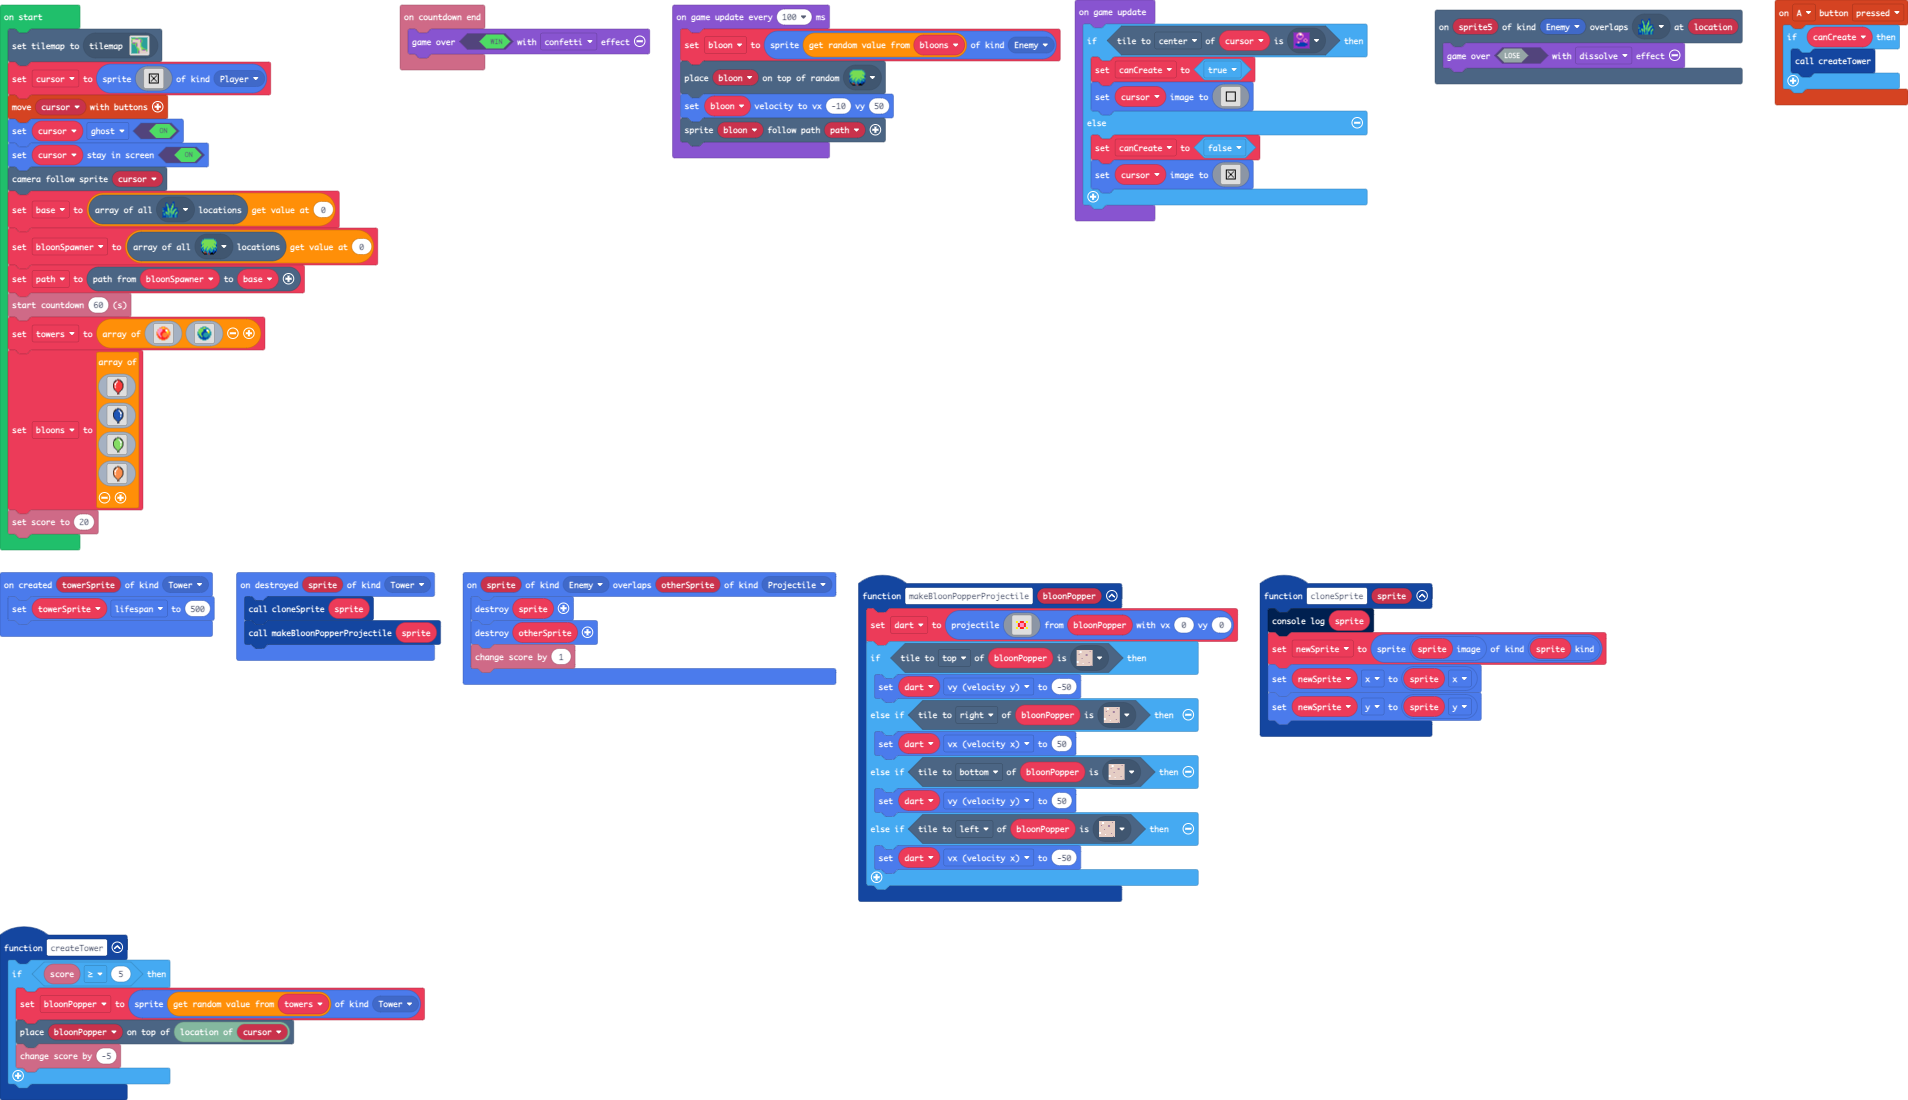
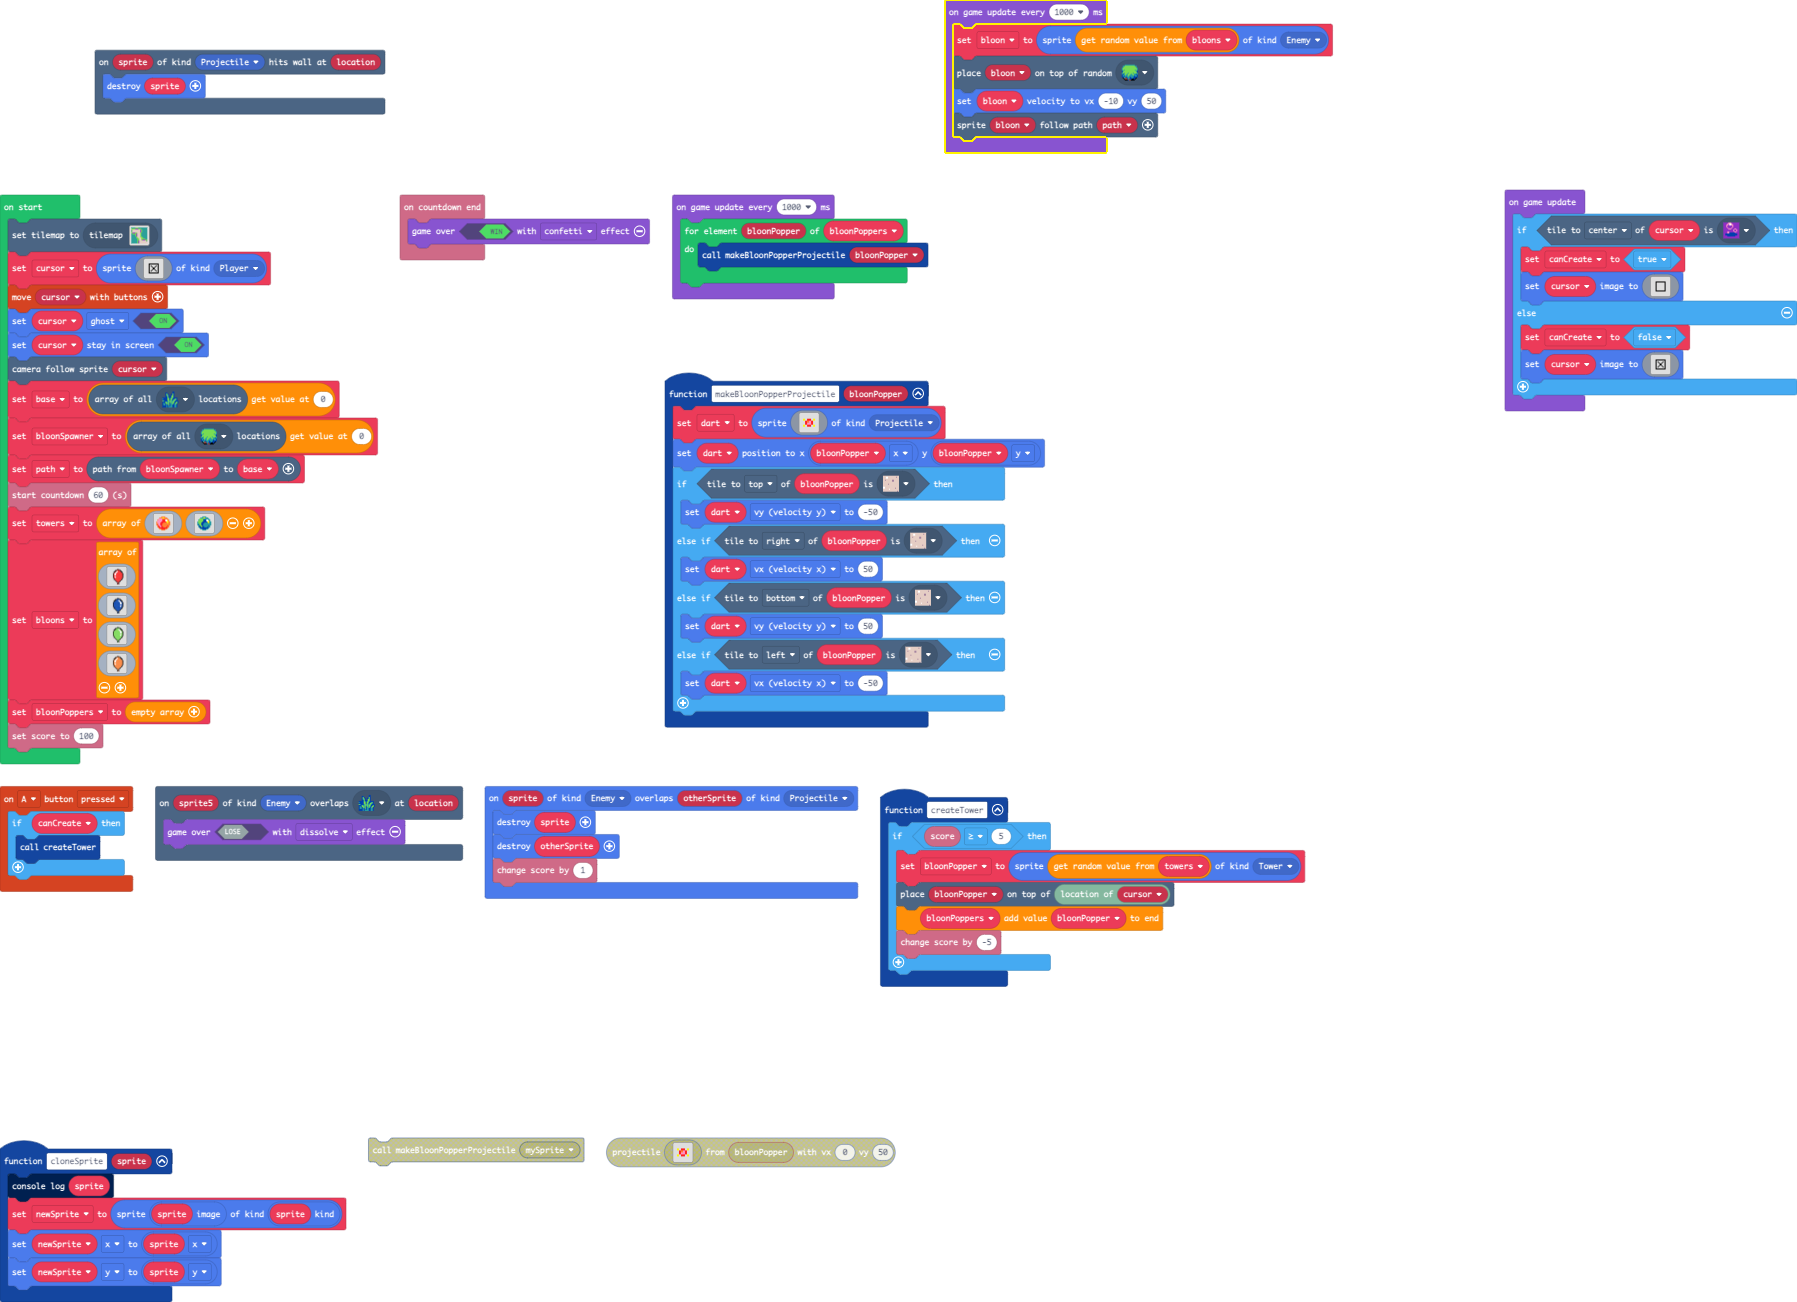
I 100% polished and finished the game. Whoo Hoo!

diff --git a/main.ts b/main.ts
@@ -1,14 +1,11 @@
 namespace SpriteKind {
     export const Tower = SpriteKind.create()
 }
-sprites.onDestroyed(SpriteKind.Tower, function (sprite) {
-    cloneSprite(sprite)
-    makeBloonPopperProjectile(sprite)
-})
 function createTower () {
     if (info.score() >= 5) {
         bloonPopper = sprites.create(towers._pickRandom(), SpriteKind.Tower)
         tiles.placeOnTile(bloonPopper, tiles.locationOfSprite(cursor))
+        bloonPoppers.push(bloonPopper)
         info.changeScoreBy(-5)
     }
 }
@@ -24,12 +21,13 @@ controller.A.onEvent(ControllerButtonEvent.Pressed, function () {
     }
 })
 function makeBloonPopperProjectile (bloonPopper: Sprite) {
-    dart = sprites.createProjectileFromSprite(img`
+    dart = sprites.create(img`
         . 5 . 2 2 . 5 . 
-        . . 2 3 3 2 . . 
+        . . 2 4 3 2 . . 
         . . 2 3 3 2 . . 
         . 5 . 2 2 . 5 . 
-        `, bloonPopper, 0, 0)
+        `, SpriteKind.Projectile)
+    dart.setPosition(bloonPopper.x, bloonPopper.y)
     if (bloonPopper.tileKindAt(TileDirection.Top, sprites.castle.tilePath5)) {
         dart.vy = -50
     } else if (bloonPopper.tileKindAt(TileDirection.Right, sprites.castle.tilePath5)) {
@@ -51,14 +49,15 @@ info.onCountdownEnd(function () {
 scene.onOverlapTile(SpriteKind.Enemy, sprites.swamp.swampTile2, function (sprite5, location) {
     game.over(false, effects.dissolve)
 })
-sprites.onCreated(SpriteKind.Tower, function (towerSprite) {
-    towerSprite.lifespan = 500
+scene.onHitWall(SpriteKind.Projectile, function (sprite, location) {
+    sprite.destroy()
 })
 let bloon: Sprite = null
 let dart: Sprite = null
 let canCreate = false
 let newSprite: Sprite = null
 let bloonPopper: Sprite = null
+let bloonPoppers: Sprite[] = []
 let towers: Image[] = []
 let cursor: Sprite = null
 tiles.setCurrentTilemap(tilemap`level1`)
@@ -112,7 +111,8 @@ assets.image`Bloon0`,
 assets.image`Bloon2`,
 assets.image`Bloon3`
 ]
-info.setScore(20)
+bloonPoppers = []
+info.setScore(100)
 game.onUpdate(function () {
     if (cursor.tileKindAt(TileDirection.Center, sprites.swamp.swampTile13)) {
         canCreate = true
@@ -139,9 +139,14 @@ game.onUpdate(function () {
         cursor.setImage(assets.image`Cursor`)
     }
 })
-game.onUpdateInterval(100, function () {
+game.onUpdateInterval(1000, function () {
     bloon = sprites.create(bloons._pickRandom(), SpriteKind.Enemy)
     tiles.placeOnRandomTile(bloon, sprites.builtin.forestTiles0)
     bloon.setVelocity(-10, 50)
     scene.followPath(bloon, path)
+})
+game.onUpdateInterval(1000, function () {
+    for (let bloonPopper of bloonPoppers) {
+        makeBloonPopperProjectile(bloonPopper)
+    }
 })

diff --git a/tilemap.g.ts b/tilemap.g.ts
@@ -43,6 +43,25 @@ namespace myTiles {
 . . . . . . . . . . . . . . . . 
 . . . . . . . . . . . . . . . . 
 `, [myTiles.transparency16], TileScale.Sixteen);
+            case "level3":
+            case "level3":return tiles.createTilemap(hex`1000100000000000000000000000000000000000000000000000000000000000000000000000000000000000000000000000000000000000000000000000000000000000000000000000000000000000000000000000000000000000000000000000000000000000000000000000000000000000000000000000000000000000000000000000000000000000000000000000000000000000000000000000000000000000000000000000000000000000000000000000000000000000000000000000000000000000000000000000000000000000000000000000000000000000000000000000000000000000000000000000000000000000000000000000000000000000`, img`
+. . . . . . . . . . . . . . . . 
+. . . . . . . . . . . . . . . . 
+. . . . . . . . . . . . . . . . 
+. . . . . . . . . . . . . . . . 
+. . . . . . . . . . . . . . . . 
+. . . . . . . . . . . . . . . . 
+. . . . . . . . . . . . . . . . 
+. . . . . . . . . . . . . . . . 
+. . . . . . . . . . . . . . . . 
+. . . . . . . . . . . . . . . . 
+. . . . . . . . . . . . . . . . 
+. . . . . . . . . . . . . . . . 
+. . . . . . . . . . . . . . . . 
+. . . . . . . . . . . . . . . . 
+. . . . . . . . . . . . . . . . 
+. . . . . . . . . . . . . . . . 
+`, [myTiles.transparency16], TileScale.Sixteen);
         }
         return null;
     })
